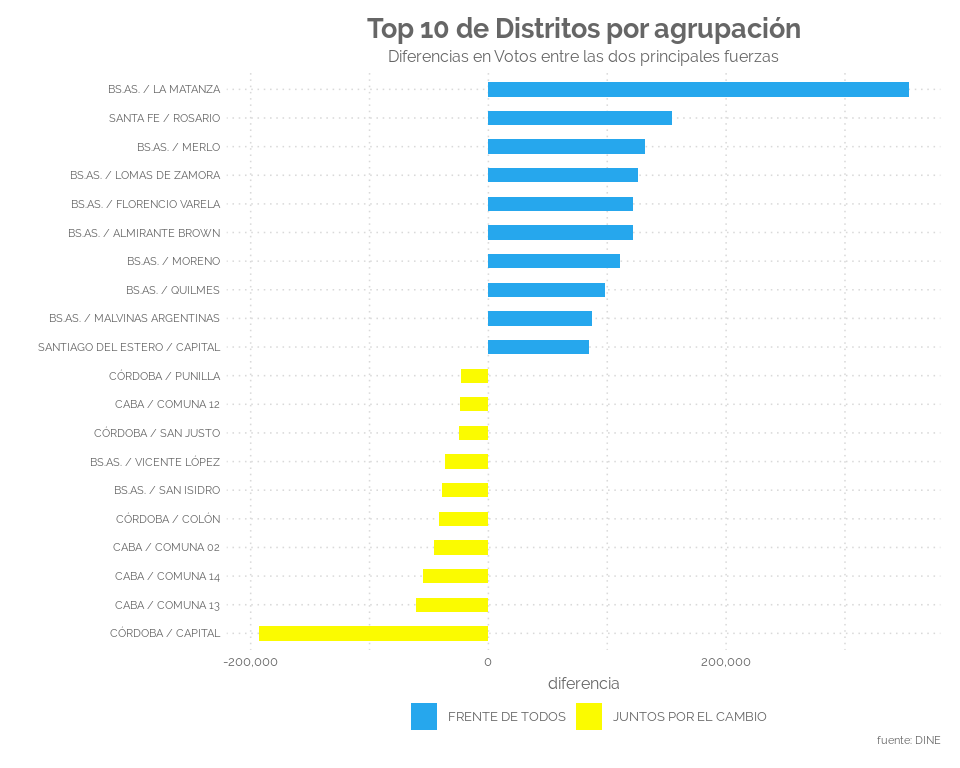
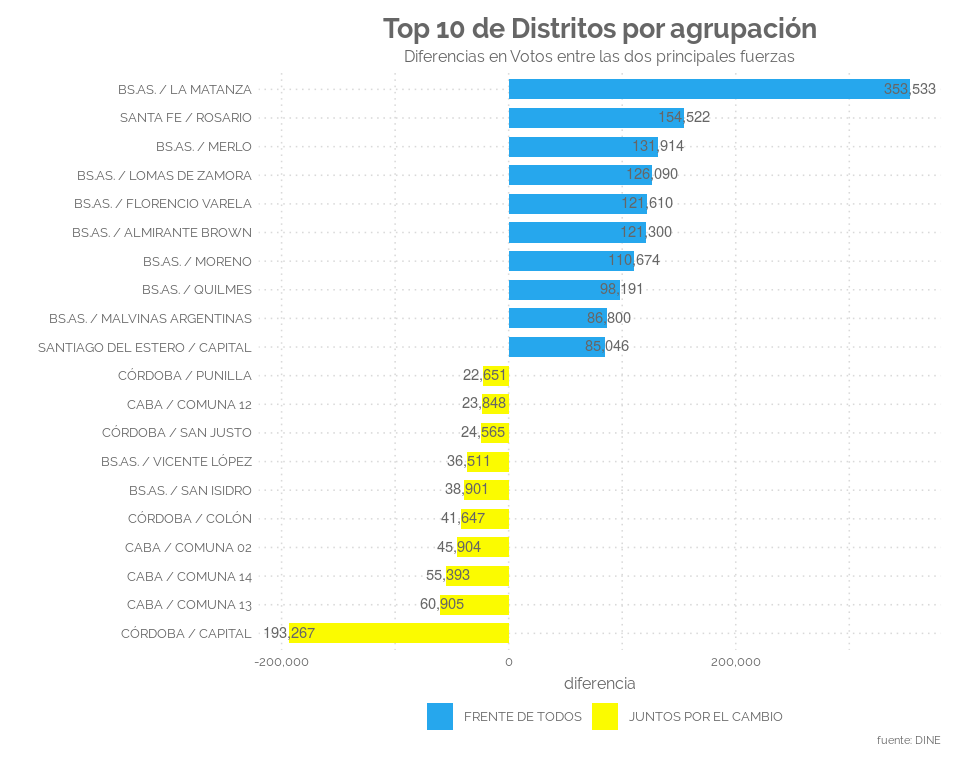
work on paso 2019 distritos plot add votos

diff --git a/_posts/2019/2019-08-20-paso-2019-algunos-datos.md b/_posts/2019/2019-08-20-paso-2019-algunos-datos.md
@@ -481,7 +481,8 @@ Y ahora sí, veamos los datos:
 ``` r
 top_10_distritos %>% 
   ggplot(aes(x=fct_reorder(area,diferencia),y=diferencia)) +
-  geom_bar(stat='identity', aes(fill=agrupacion), width=.5) +
+  geom_bar(stat='identity', aes(fill=agrupacion), width=.7) +
+  geom_text(aes(label=format(abs(diferencia), nsmall=0, big.mark=",")),  vjust=0.38, col="#666666") +
   scale_fill_manual(labels = function(x) str_wrap(x, 20), values = colores) + 
   scale_y_continuous(labels = scales::comma) +
   coord_flip() +
@@ -490,8 +491,37 @@ top_10_distritos %>%
          caption="fuente: DINE", 
          x="",
          color=NULL) +
-    theme_elegante_std(base_family = "Raleway") +
-    theme(axis.text.y = element_text(size=8))
+    theme(axis.text.y = element_text(size=8)) +
+    theme_elegante_std(base_family = "Raleway")
 ```
 
 <img src="/images/2019/2019-08-20-paso-2019-algunos-datos_files/figure-markdown_github/distritos_plot-1.png" style="display: block; margin: auto;" />
+
+¿En cuantas mesas ganó cada agrupación?
+---------------------------------------
+
+``` r
+votos_porcentaje %>% 
+  select(nombre_meta_agrupacion, id_mesa, votos) %>% 
+  arrange(id_mesa, -votos) %>% 
+  group_by(id_mesa) %>% 
+  mutate(nr = row_number()) %>% 
+  filter(nr == 1) %>% 
+  group_by(nombre_meta_agrupacion) %>% 
+  summarize(mesas = n()) %>% 
+  arrange(-mesas) %>% 
+  kable()
+```
+
+| nombre\_meta\_agrupacion                       |  mesas|
+|:-----------------------------------------------|------:|
+| FRENTE DE TODOS                                |  65656|
+| JUNTOS POR EL CAMBIO                           |  30512|
+| CONSENSO FEDERAL                               |    122|
+| VOTOS en BLANCO                                |     77|
+| FRENTE DE IZQUIERDA Y DE TRABAJADORES - UNIDAD |     23|
+| FRENTE NOS                                     |     16|
+| MOVIMIENTO AL SOCIALISMO                       |      5|
+| UNITE POR LA LIBERTAD Y LA DIGNIDAD            |      4|
+| FRENTE PATRIOTA                                |      3|
+| MOVIMIENTO DE ACCION VECINAL                   |      1|
